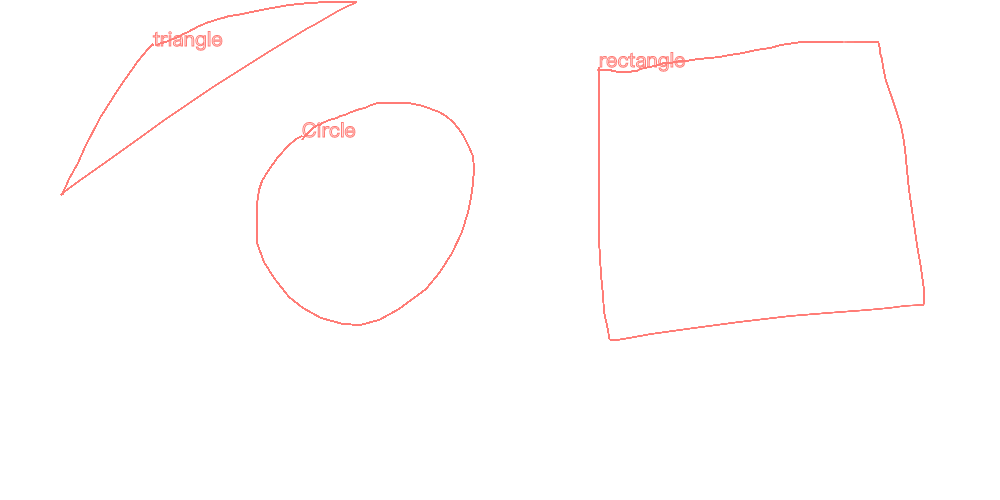
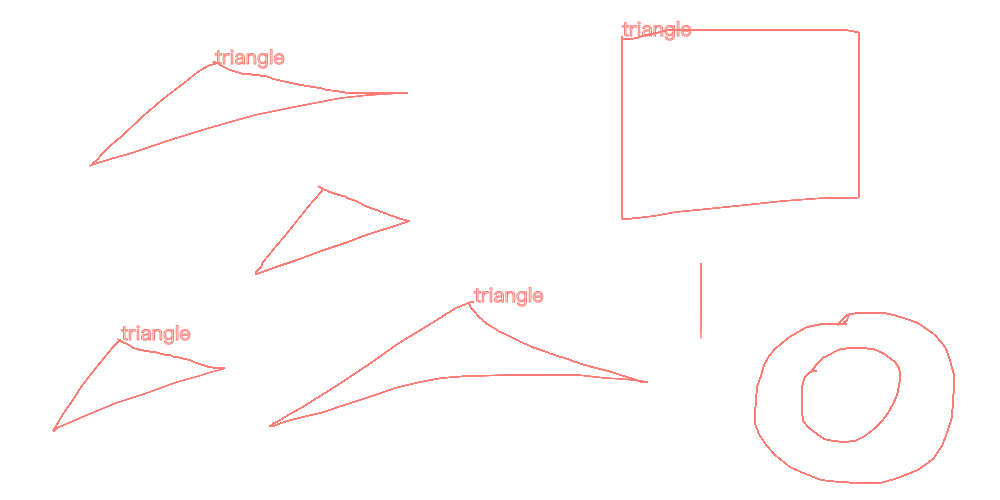
add：Screen Shot

diff --git a/Web/src/components/CanvasPanel.vue b/Web/src/components/CanvasPanel.vue
@@ -308,6 +308,7 @@ export default {
     emptyCanvas () {
       this.context.clearRect(0, 0, 1000, 500)
       this.initData()
+      this.figureList = []
     },
     /**
      * 重新初始化数据
